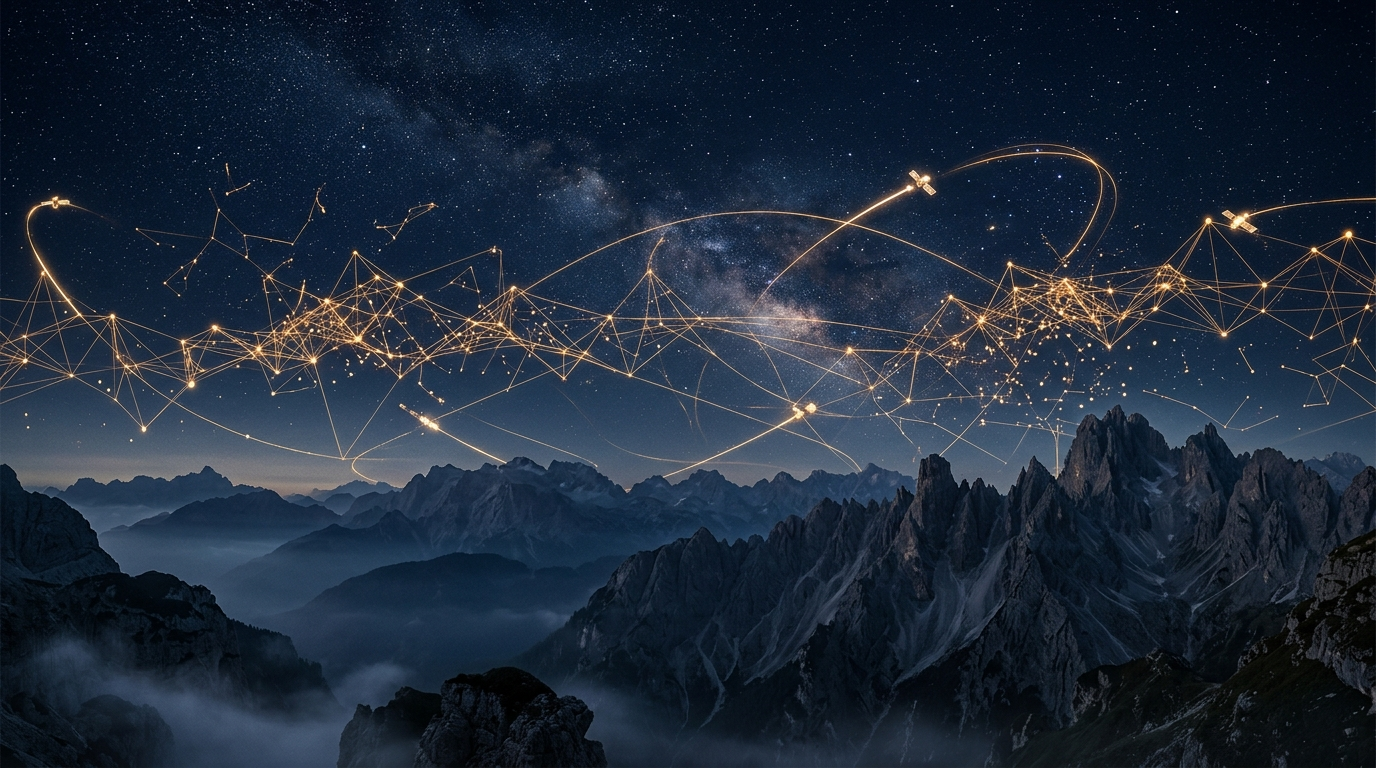
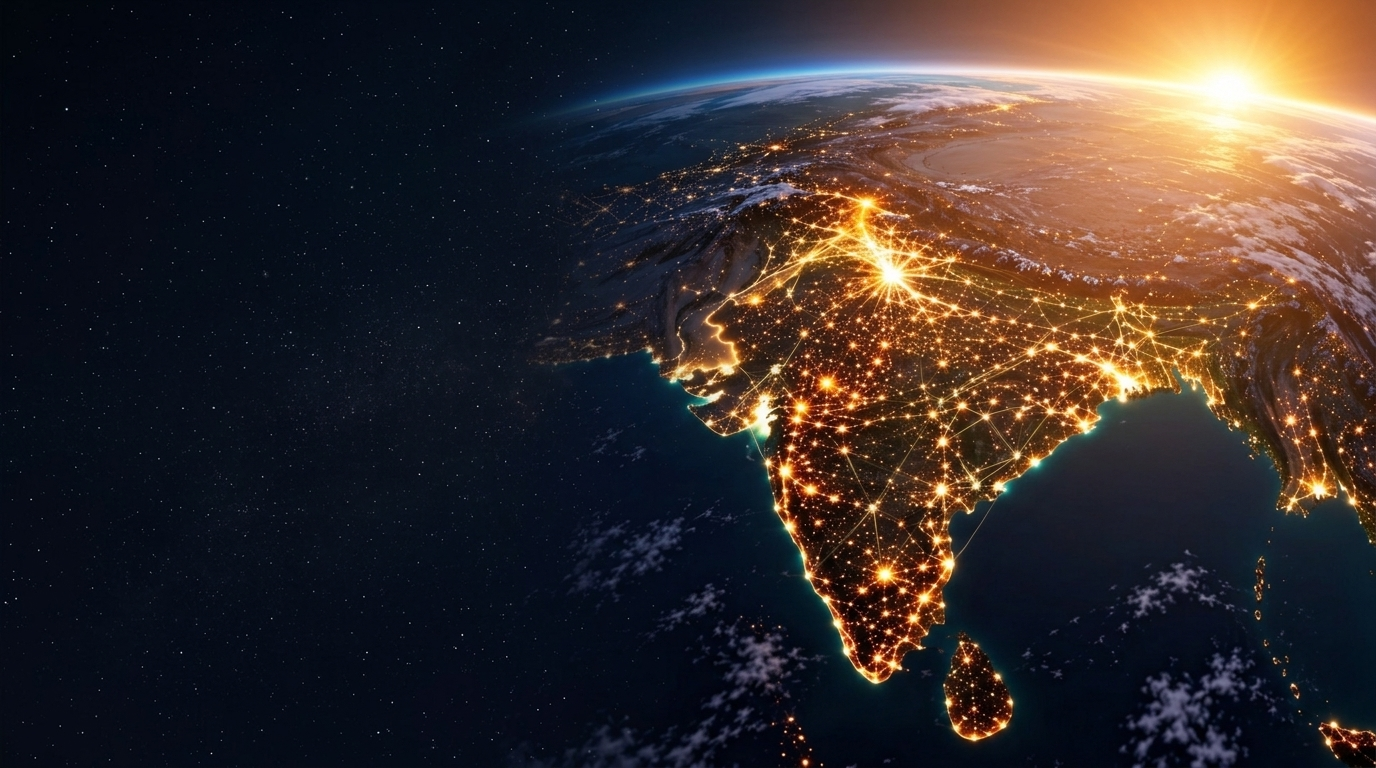
feat: add brand assets and styles while removing the industry experience section from index.html

diff --git a/index.html b/index.html
@@ -8,7 +8,7 @@
   <meta name="keywords" content="Bhabha Global, Tax and Advisory, Accounting, Bookkeeping, Financial Reporting, Remote Finance, Business Advisory">
 
   <!-- Favicon -->
-  <link rel="icon" type="image/svg+xml" href="assets/images/logo-mark.svg">
+  <link rel="icon" type="image/png" href="assets/images/logo-mark.png">
 
   <!-- Google Fonts -->
   <link rel="preconnect" href="https://fonts.googleapis.com">
@@ -34,7 +34,7 @@
       <div class="container">
         <!-- Logo -->
         <a class="navbar-brand d-flex align-items-center" href="#hero" aria-label="Bhabha Global Home">
-          <img src="assets/images/logo.svg" alt="Bhabha Global Tax and Advisory" class="navbar-brand-logo">
+          <img src="assets/images/logo-transparent.png" alt="Bhabha Global Tax and Advisory" class="navbar-brand-logo">
         </a>
 
         <!-- Mobile Toggler -->
@@ -56,9 +56,6 @@
             </li>
             <li class="nav-item">
               <a class="nav-link nav-link-custom" href="#family">Our Team</a>
-            </li>
-            <li class="nav-item">
-              <a class="nav-link nav-link-custom" href="#industries">Industries</a>
             </li>
             <li class="nav-item">
               <a class="nav-link nav-link-custom" href="#why-us">Insights</a>
@@ -413,111 +410,6 @@
   </section>
 
   <!-- =========================================================================
-       SECTION 5: INDUSTRY EXPERIENCE
-       ========================================================================= -->
-  <section id="industries" class="section-industries">
-    <div class="container">
-      <!-- Section Header -->
-      <div class="row align-items-end justify-content-between mb-5">
-        <div class="col-lg-8">
-          <span class="section-label">INDUSTRY EXPERIENCE</span>
-          <h2 class="section-title">Diverse Sectors. Practical Solutions.</h2>
-          <p class="section-desc mb-0">
-            We have worked with businesses across multiple industries, gaining hands-on experience in real business environments.
-          </p>
-        </div>
-        <div class="col-lg-4 text-lg-end mt-4 mt-lg-0">
-          <a href="#industries" class="link-arrow">
-            <span>Explore All Sectors</span>
-            <i class="bi bi-arrow-right"></i>
-          </a>
-        </div>
-      </div>
-
-      <!-- 6 Industry Cards Grid -->
-      <div class="row row-cols-2 row-cols-md-3 row-cols-lg-6 g-3 g-lg-4">
-        <!-- 1. Civil Contractors -->
-        <div class="col">
-          <div class="industry-card">
-            <img src="assets/images/industry-construction.jpg" alt="Civil Contractors" class="industry-card-img" loading="lazy">
-            <div class="industry-overlay">
-              <div class="industry-icon-pill">
-                <i class="bi bi-buildings"></i>
-              </div>
-              <h4 class="industry-title">Civil Contractors</h4>
-            </div>
-          </div>
-        </div>
-
-        <!-- 2. Hotels & Hospitality -->
-        <div class="col">
-          <div class="industry-card">
-            <img src="assets/images/industry-hotel.jpg" alt="Hotels & Hospitality" class="industry-card-img" loading="lazy">
-            <div class="industry-overlay">
-              <div class="industry-icon-pill">
-                <i class="bi bi-door-open"></i>
-              </div>
-              <h4 class="industry-title">Hotels &amp; Hospitality</h4>
-            </div>
-          </div>
-        </div>
-
-        <!-- 3. Restaurants & Food -->
-        <div class="col">
-          <div class="industry-card">
-            <img src="assets/images/industry-restaurant.jpg" alt="Restaurants & Food" class="industry-card-img" loading="lazy">
-            <div class="industry-overlay">
-              <div class="industry-icon-pill">
-                <i class="bi bi-cup-hot"></i>
-              </div>
-              <h4 class="industry-title">Restaurants &amp; Food</h4>
-            </div>
-          </div>
-        </div>
-
-        <!-- 4. Retail & Wholesale -->
-        <div class="col">
-          <div class="industry-card">
-            <img src="assets/images/industry-warehouse.jpg" alt="Retail & Wholesale" class="industry-card-img" loading="lazy">
-            <div class="industry-overlay">
-              <div class="industry-icon-pill">
-                <i class="bi bi-box-seam"></i>
-              </div>
-              <h4 class="industry-title">Retail &amp; Wholesale</h4>
-            </div>
-          </div>
-        </div>
-
-        <!-- 5. Petrol Pumps -->
-        <div class="col">
-          <div class="industry-card">
-            <img src="assets/images/industry-petrol.jpg" alt="Petrol Pumps" class="industry-card-img" loading="lazy">
-            <div class="industry-overlay">
-              <div class="industry-icon-pill">
-                <i class="bi bi-fuel-pump"></i>
-              </div>
-              <h4 class="industry-title">Petrol Pumps</h4>
-            </div>
-          </div>
-        </div>
-
-        <!-- 6. LPG Gas Distributors -->
-        <div class="col">
-          <div class="industry-card">
-            <img src="assets/images/industry-lpg.jpg" alt="LPG Gas Distributors" class="industry-card-img" loading="lazy">
-            <div class="industry-overlay">
-              <div class="industry-icon-pill">
-                <i class="bi bi-fire"></i>
-              </div>
-              <h4 class="industry-title">LPG Gas Distributors</h4>
-            </div>
-          </div>
-        </div>
-      </div>
-    </div>
-  </section>
-
-  <!-- =========================================================================
        SECTION 6: OUR GLOBAL OUTLOOK
        ========================================================================= -->
   <section id="outlook" class="section-outlook">
@@ -670,7 +562,7 @@
         <!-- Right Side: Luxury Brand Crest Badge -->
         <div class="col-lg-5 text-lg-end">
           <div class="cta-brand-badge">
-            <img src="assets/images/logo.svg" alt="Bhabha Global Tax and Advisory" style="max-height: 80px;" class="ms-lg-auto">
+            <img src="assets/images/logo-transparent.png" alt="Bhabha Global Tax and Advisory" style="max-height: 80px;" class="ms-lg-auto">
           </div>
         </div>
       </div>
@@ -686,7 +578,7 @@
         <!-- Col 1: Logo -->
         <div class="col-lg-3 text-center text-lg-start">
           <a href="#hero" aria-label="Bhabha Global Home">
-            <img src="assets/images/logo.svg" alt="Bhabha Global Tax and Advisory" style="height: 48px;">
+            <img src="assets/images/logo-transparent.png" alt="Bhabha Global Tax and Advisory" style="height: 48px;">
           </a>
         </div>
 

diff --git a/css/style.css b/css/style.css
@@ -80,7 +80,7 @@ section, header, footer {
   overflow-x: clip;
 }
 
-/* Responsive container constraints with generous desktop side margins */
+/* Responsive container constraints with balanced, elegant desktop side margins */
 .container {
   width: 100%;
   margin-right: auto;
@@ -104,24 +104,32 @@ section, header, footer {
 @media (min-width: 992px) {
   .container {
     max-width: 960px;
-    padding-right: 2rem;
-    padding-left: 2rem;
+    padding-right: 1.5rem;
+    padding-left: 1.5rem;
   }
 }
 
 @media (min-width: 1200px) {
   .container {
-    max-width: 1140px;
-    padding-right: 2.5rem;
-    padding-left: 2.5rem;
+    max-width: 1240px;
+    padding-right: 1.5rem;
+    padding-left: 1.5rem;
   }
 }
 
 @media (min-width: 1400px) {
   .container {
-    max-width: 1280px;
-    padding-right: 3rem;
-    padding-left: 3rem;
+    max-width: 1440px;
+    padding-right: 1.75rem;
+    padding-left: 1.75rem;
+  }
+}
+
+@media (min-width: 1600px) {
+  .container {
+    max-width: 1620px;
+    padding-right: 2rem;
+    padding-left: 2rem;
   }
 }
 
@@ -383,9 +391,9 @@ img {
   padding-top: 130px;
   padding-bottom: 70px;
   background-color: var(--bg-dark-base);
-  background-image: linear-gradient(180deg, rgba(6, 20, 39, 0.72) 0%, rgba(6, 20, 39, 0.88) 65%, #061427 100%), url('../assets/images/hero-bg.jpg');
+  background-image: linear-gradient(90deg, rgba(4, 12, 23, 0.88) 0%, rgba(4, 12, 23, 0.65) 42%, rgba(4, 12, 23, 0.12) 72%, rgba(4, 12, 23, 0.05) 100%), linear-gradient(180deg, rgba(4, 12, 23, 0.25) 0%, transparent 60%, #061427 100%), url('../assets/images/hero-bg.jpg');
   background-size: cover;
-  background-position: center top;
+  background-position: right center;
   background-repeat: no-repeat;
   color: #ffffff;
   display: flex;
@@ -1281,6 +1289,7 @@ img {
   .hero-section {
     padding-top: 110px;
     padding-bottom: 50px;
+    background-position: 75% center;
   }
 
   .hero-title {
